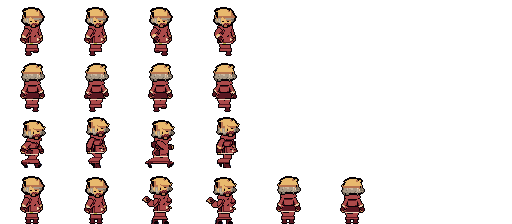
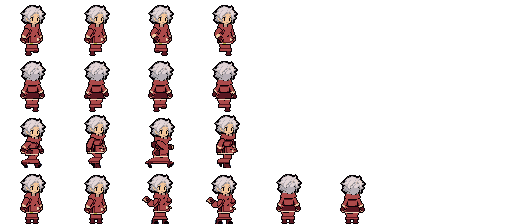
NPC: kepala diambil dari gambar referensi pemilik (depan/samping/belakang, warna kulit ikut)
Claude-Session: https://claude.ai/code/session_013SaXTJuwinpA9vu4txrWbT

diff --git a/tools/npc_ref_heads.py b/tools/npc_ref_heads.py
@@ -1,0 +1,197 @@
+"""Kepala NPC dari gambar referensi pemilik (tools/npc_ref/npc_ref_owner.png, 25 tokoh dalam grid 9×3).
+Gambar referensi adalah lembar NPC kita yang digambar ulang (skala ≈6,11×), jadi tiap piksel dasar = pusat blok 6×6.
+Hasil: tools/npc_ref/heads/<id>_d.png (tampak depan, juga dipakai tampak samping) dan <id>_u.png (belakang: wajah jadi rambut),
+kanvas 64×56 dalam koordinat sel frame diam bawah. Jalankan: python3 tools/npc_ref_heads.py"""
+import os
+import numpy as np
+from PIL import Image
+
+REF = 'tools/npc_ref/npc_ref_owner.png'
+OUT = 'tools/npc_ref/heads'
+# urutan slot = urutan lembar perbandingan (slot 0 = posisi MC, tidak dipakai)
+ORDER = ['_mc', 'ac1', 'ac2', 'ar1', 'bw1', 'courier', 'gk1', 'gk3', 'guard', 'in1', 'merc1', 'pm1', 'pm2', 'ps1', 'ps2',
+         'smith', 'tp1', 'farmer', 'gun', 'hermit', 'lestari', 'nila', 'ratih', 'mom', 'inn']
+CELL_X, CELL_Y = 17, 4       # posisi kiri-atas slot pada sel 64×56
+HEAD_LAST = 21               # baris terakhir kepala (dagu) dalam slot
+LONG_HAIR = {'tp1', 'pm1'}   # rambut melewati dagu: helai di bawah dagu ikut diambil
+BG = np.array((111, 174, 96))
+BLK = (6, 1, 5)
+
+
+def small():
+    im = np.array(Image.open(REF).convert('RGB')).astype(float)
+    H, W, _ = im.shape
+    sx, sy = W / 270, H / 156
+    out = np.zeros((156, 270, 3), np.uint8)
+    for y in range(156):
+        for x in range(270):
+            cy, cx = int((y + 0.5) * sy), int((x + 0.5) * sx)
+            out[y, x] = np.median(im[cy - 1:cy + 2, cx - 1:cx + 2].reshape(-1, 3), 0)
+    return out
+
+
+def is_skin(c):
+    r, g, b = (int(v) for v in c)
+    return r > 170 and g > 120 and b > 80 and r - b > 45 and r >= g
+
+
+def head(slot, R):
+    x0, y0 = (slot % 9) * 30, (slot // 9) * 52
+    a = R[y0:y0 + HEAD_LAST + 1, x0:x0 + 30].astype(int)
+    al = np.abs(a - BG).sum(-1) > 55
+    # baris terakhir: hanya kolom wajah (kerah baju dibuang)
+    skin_cols = [x for x in range(30) if is_skin(a[HEAD_LAST - 1, x])]
+    if skin_cols:
+        al[HEAD_LAST, :min(skin_cols) - 1] = False
+        al[HEAD_LAST, max(skin_cols) + 2:] = False
+    # rapikan warna: kuantisasi ke ≤12 warna, hitam pekat = garis
+    a2 = a.copy()
+    a2[~al] = BLK                 # latar tidak ikut menentukan palet
+    img = Image.fromarray(a2.astype(np.uint8))
+    q = np.array(img.quantize(14, method=Image.Quantize.MEDIANCUT).convert('RGB')).astype(int)
+    q[q.sum(-1) < 110] = BLK
+    rgba = np.zeros((56, 64, 4), np.uint8)
+    hgt = HEAD_LAST + 1
+    rgba[CELL_Y:CELL_Y + hgt, CELL_X:CELL_X + 30, :3] = q
+    rgba[CELL_Y:CELL_Y + hgt, CELL_X:CELL_X + 30, 3] = np.where(al, 255, 0)
+    # hanya gumpalan terbesar (buang potongan tokoh tetangga, mis. tepi caping)
+    m = rgba[..., 3] > 0
+    lab = np.zeros(m.shape, int); n = 0; sizes = {}
+    for sy, sx in zip(*np.nonzero(m)):
+        if lab[sy, sx]:
+            continue
+        n += 1; stack = [(sy, sx)]; lab[sy, sx] = n; cnt = 0
+        while stack:
+            y, x = stack.pop(); cnt += 1
+            for yy, xx in ((y + 1, x), (y - 1, x), (y, x + 1), (y, x - 1)):
+                if 0 <= yy < 56 and 0 <= xx < 64 and m[yy, xx] and not lab[yy, xx]:
+                    lab[yy, xx] = n; stack.append((yy, xx))
+        sizes[n] = cnt
+    if sizes:
+        big = max(sizes, key=sizes.get)
+        rgba[m & (lab != big)] = 0
+    # buang piksel tunggal yatim
+    m = rgba[..., 3] > 0
+    p = np.pad(m, 1)
+    nb = p[:-2, 1:-1].astype(int) + p[2:, 1:-1] + p[1:-1, :-2] + p[1:-1, 2:]
+    rgba[m & (nb == 0)] = 0
+    # garis tepi hitam di sekeliling kepala
+    m = rgba[..., 3] > 0
+    p = np.pad(m, 1)
+    ring = (p[:-2, 1:-1] | p[2:, 1:-1] | p[1:-1, :-2] | p[1:-1, 2:]) & ~m
+    ring[CELL_Y + HEAD_LAST:] = False
+    rgba[ring] = (*BLK, 255)
+    return rgba
+
+
+def face_color(d):
+    """Warna kulit wajah: warna terang terbanyak di kotak tengah wajah."""
+    box = d[18:24, 28:38]
+    c = [tuple(int(v) for v in px[:3]) for row in box for px in row if px[3] and int(px[0]) + int(px[1]) + int(px[2]) > 330]
+    if not c:
+        return None
+    vals, cnt = np.unique(np.array(c), axis=0, return_counts=True)
+    return vals[cnt.argmax()]
+
+
+def skin_mask(d):
+    fc = face_color(d)
+    m = d[..., 3] > 0
+    if fc is None:
+        return np.zeros(m.shape, bool)
+    rgb = d[..., :3].astype(int)
+    dist = np.abs(rgb - fc).sum(-1)
+    dist2 = np.abs(rgb - (fc * 0.8)).sum(-1)
+    sk = m & ((dist < 55) | (dist2 < 45))
+    sk[:12] = False
+    return sk
+
+
+def long_extra(slot, R, d):
+    """Rambut panjang di bawah dagu: piksel slot (baris 22–36) yang warnanya sama dengan rambut kepala."""
+    x0, y0 = (slot % 9) * 30, (slot // 9) * 52
+    a = R[y0:y0 + 37, x0:x0 + 30].astype(int)
+    m = d[..., 3] > 0
+    sk = skin_mask(d)
+    hair = m & ~sk & (d[..., :3].astype(int).sum(-1) > 110)
+    hair[CELL_Y + 12:] = False
+    cols = np.unique(d[hair][:, :3].astype(int), axis=0)
+    out = d.copy()
+    for y in range(HEAD_LAST + 1, 37):
+        for x in range(30):
+            c = a[y, x]
+            if np.abs(c - BG).sum() < 55:
+                continue
+            dist = np.abs(cols - c).sum(-1)
+            if dist.min() < 40:
+                out[CELL_Y + y, CELL_X + x] = (*cols[dist.argmin()], 255)
+    m2 = out[..., 3] > 0
+    p = np.pad(m2, 1)
+    ring = (p[:-2, 1:-1] | p[2:, 1:-1] | p[1:-1, :-2] | p[1:-1, 2:]) & ~m2
+    ring[:CELL_Y + HEAD_LAST + 1] = False
+    out[ring] = (*BLK, 255)
+    return out
+
+
+def back(d):
+    """Tampak belakang: kulit & mata di wajah diganti warna rambut."""
+    u = d.copy()
+    m = u[..., 3] > 0
+    skin = skin_mask(d)
+    ys, xs = np.nonzero(skin)
+    if not len(ys):
+        return u
+    fy0, fy1, fx0, fx1 = ys.min(), ys.max(), xs.min(), xs.max()
+    hair = m & ~skin & (u[..., :3].sum(-1) > 110)
+    hair[fy0:] = False
+    hy = np.nonzero(hair.any(1))[0]
+    cols = u[hair][:, :3].astype(int)
+    if not len(cols):
+        return u
+    lum = cols.sum(-1)
+    light = np.median(cols[lum >= np.median(lum)], 0).astype(np.uint8)
+    dark = np.median(cols[lum < np.median(lum)], 0).astype(np.uint8) if (lum < np.median(lum)).any() else light
+    for y in range(fy0, fy1 + 1):
+        for x in range(fx0 - 1, fx1 + 2):
+            if m[y, x] and (skin[y, x] or (u[y, x, :3] == BLK).all() and fx0 < x < fx1 and y < fy1):
+                c = light if y < fy0 + (fy1 - fy0) * 0.45 else dark
+                if (x + y) % 5 == 0:
+                    c = dark
+                u[y, x, :3] = c
+    return u
+
+
+def skin_tone(d):
+    sk = skin_mask(d)
+    c = [tuple(int(v) for v in d[y, x, :3]) for y, x in zip(*np.nonzero(sk))]
+    if not c:
+        return None
+    c = np.array(c)
+    lum = c.sum(-1)
+    base = np.median(c[lum >= np.median(lum)], 0).astype(int)
+    shade = np.median(c[lum < np.median(lum)], 0).astype(int) if (lum < np.median(lum)).any() else (base * 0.8).astype(int)
+    return tuple(base), tuple(shade)
+
+
+def main():
+    R = small()
+    os.makedirs(OUT, exist_ok=True)
+    tones = {}
+    for slot, nid in enumerate(ORDER):
+        if nid.startswith('_'):
+            continue
+        d = head(slot, R)
+        if nid in LONG_HAIR:
+            d = long_extra(slot, R, d)
+        Image.fromarray(d).save(f'{OUT}/{nid}_d.png')
+        Image.fromarray(back(d)).save(f'{OUT}/{nid}_u.png')
+        tones[nid] = skin_tone(d)
+    with open(f'{OUT}/kulit.txt', 'w') as f:
+        for k, v in tones.items():
+            if v:
+                f.write(k + ' ' + ' '.join(str(int(c)) for c in (*v[0], *v[1])) + '\n')
+    print('ok', len(tones))
+
+
+if __name__ == '__main__':
+    main()

diff --git a/tools/npc_heads.py b/tools/npc_heads.py
@@ -342,6 +342,18 @@ def nb4(m):
 
 
 _CACHE = {}
+REF_SKIN = {}
+try:
+    for line in open('tools/npc_ref/heads/kulit.txt'):
+        k, *v = line.split()
+        REF_SKIN[k] = (tuple(map(int, v[:3])), tuple(map(int, v[3:6])))
+except OSError:
+    pass
+
+
+def skin_of(o):
+    """Warna kulit NPC: dari gambar referensi pemilik bila ada, kalau tidak dari pilihan `kulit`."""
+    return REF_SKIN.get(o.get('_id'), SKIN[o.get('kulit', 'terang')])
 
 
 def draw_head(a, b, o, facing, key):
@@ -349,7 +361,15 @@ def draw_head(a, b, o, facing, key):
     dx, dy, m = find_offset(a, facing)
     ck = (key, facing)
     if ck not in _CACHE:
-        _CACHE[ck] = build_head(o, facing)
+        import os
+        ref = f'tools/npc_ref/heads/{key}_{"u" if facing == "u" else "d"}.png'
+        if os.path.exists(ref):   # kepala dari gambar referensi pemilik
+            _CACHE[ck] = np.array(Image.open(ref).convert('RGBA'))
+            if facing != 'd':     # kepala referensi digambar pada posisi frame diam bawah
+                gd, gf = GEO['d'], GEO[facing]
+                _CACHE[ck] = np.roll(_CACHE[ck], int(round(gf['cx'] - gd['cx'])), 1)
+        else:
+            _CACHE[ck] = build_head(o, facing)
     hd = np.roll(np.roll(_CACHE[ck], dy, 0), dx, 1)
     g = GEO[facing]
     chin = g['chin'] + dy
@@ -359,7 +379,7 @@ def draw_head(a, b, o, facing, key):
     s = hd[..., 3] > 0
     b[s] = hd[s]
     # leher
-    sk, sks = SKIN[o.get('kulit', 'terang')]
+    sk, sks = skin_of(o)
     ncx = int(g['cx'] + dx) if facing == 'd' else int(g['cx'] + dx) + 3
     if facing != 'u':
         for y in (chin + 1, chin + 2):

diff --git a/tools/npc_from_mc.py b/tools/npc_from_mc.py
@@ -89,7 +89,7 @@ def recolor(a, o, facing):
     b[(eq(HAIR_D) | eq(HAIR_S1) | eq(HAIR_S2)) & head] = (*hd, 255)
     paint_body(a, b, o, facing, top, neck, bot)
     o = dict(o, _rambut=(hl, hd))
-    sk, sks = npc_heads.SKIN[o.get('kulit', 'terang')]
+    sk, sks = npc_heads.skin_of(o)
     b[(eq((233, 185, 110))) & (b[..., :3] == (233, 185, 110)).all(-1)] = (*sk, 255)    # tangan/kaki ikut warna kulit
     b[(eq((183, 115, 79))) & (b[..., :3] == (183, 115, 79)).all(-1)] = (*sks, 255)
     npc_heads.draw_head(a, b, o, facing, o['_id'])

diff --git a/AGENTS.md b/AGENTS.md
@@ -41,3 +41,4 @@ Proyek kini berjalan sepenuhnya di **Godot 4.7.2** (`godot/project.godot`, rende
 - **Pose merapal (2026-11-27):** `hero_mc2.png` baris 25–27 = cast bawah/atas/samping (samping: badan atas frame jalan bertangan maju di atas kaki diam; bawah/atas: badan naik-turun 1 px). `Player.try_cast_skill` memutar `cast_*` 0,34 dtk (`cast_anim_t` menahan anim diam/jalan). Game Godot belum punya senjata busur, jadi pose busur belum dipakai. Uji: `tests/_probe_cast.gd`.
 - **Palet NPC (2026-11-27):** 35 sprite NPC yang dipakai game disamakan ke palet tokoh utama: 11 warna `CHARACTER_STYLE.md` + abu muda, abu tua, cokelat (keputusan pemilik, untuk uban/zirah/kulit gelap), lalu dibersihkan (`tools/sprite_clean.py`). `python3 tools/npc_palette.py [--preview]`; aslinya di `tools/npc_src/` (sumber tetap, jalankan ulang aman). Tinggi NPC masih beragam (25–47 px).
 - **NPC bertubuh tokoh utama (2026-11-27):** 24 NPC kini memakai lembar `npc_mc_<id>.png` (512×224, sel 64×56) yang dibangun dari tubuh & animasi `hero_mc2.png` dengan badan dicat ulang: potongan baju berbeda per NPC (kemeja, rompi, zirah, selempang, overall, kancing, celemek, rok/jubah, celana, kerah, sabuk, topi, tudung) (`python3 tools/npc_from_mc.py`, atur di dict `NPC`). Kepala = kepala MC yang rambutnya disunting tambalan piksel (`tools/npc_hair_art.py`, gaya: mc, bulat, rata, belah, panjang, kuncir, sanggul, cepak, botak), dipasang per frame oleh `tools/npc_heads.py`; nama lama `gaya_rambut` poni→rata, jabrik→mc, keriting→bulat; `mata` = titik | sipit | bulat | senyum | kacamata; `alis`, `mulut`, `pipi`, `kumis`, `jenggot`, `keriput`; `kulit` = terang | sawo | gelap; `topi` = caping | topi | tudung | helm. `npc.gd` punya cabang format 512×224.
+- **Kepala NPC dari referensi pemilik (2026-11-27):** `tools/npc_ref/npc_ref_owner.png` (grid 9×3, slot 0 = posisi MC tak dipakai, urutan `ORDER` di `tools/npc_ref_heads.py`) diperkecil ke skala dasar (÷6,11), kepala tiap NPC dipotong (dagu = baris 21 slot) → `tools/npc_ref/heads/<id>_d.png` (depan & samping) dan `_u.png` (belakang: wajah diisi warna rambut), plus warna kulit `kulit.txt` (tangan & leher ikut). `npc_heads.draw_head` memakai kepala referensi bila ada. Urutan: `python3 tools/npc_ref_heads.py && python3 tools/npc_from_mc.py`.
